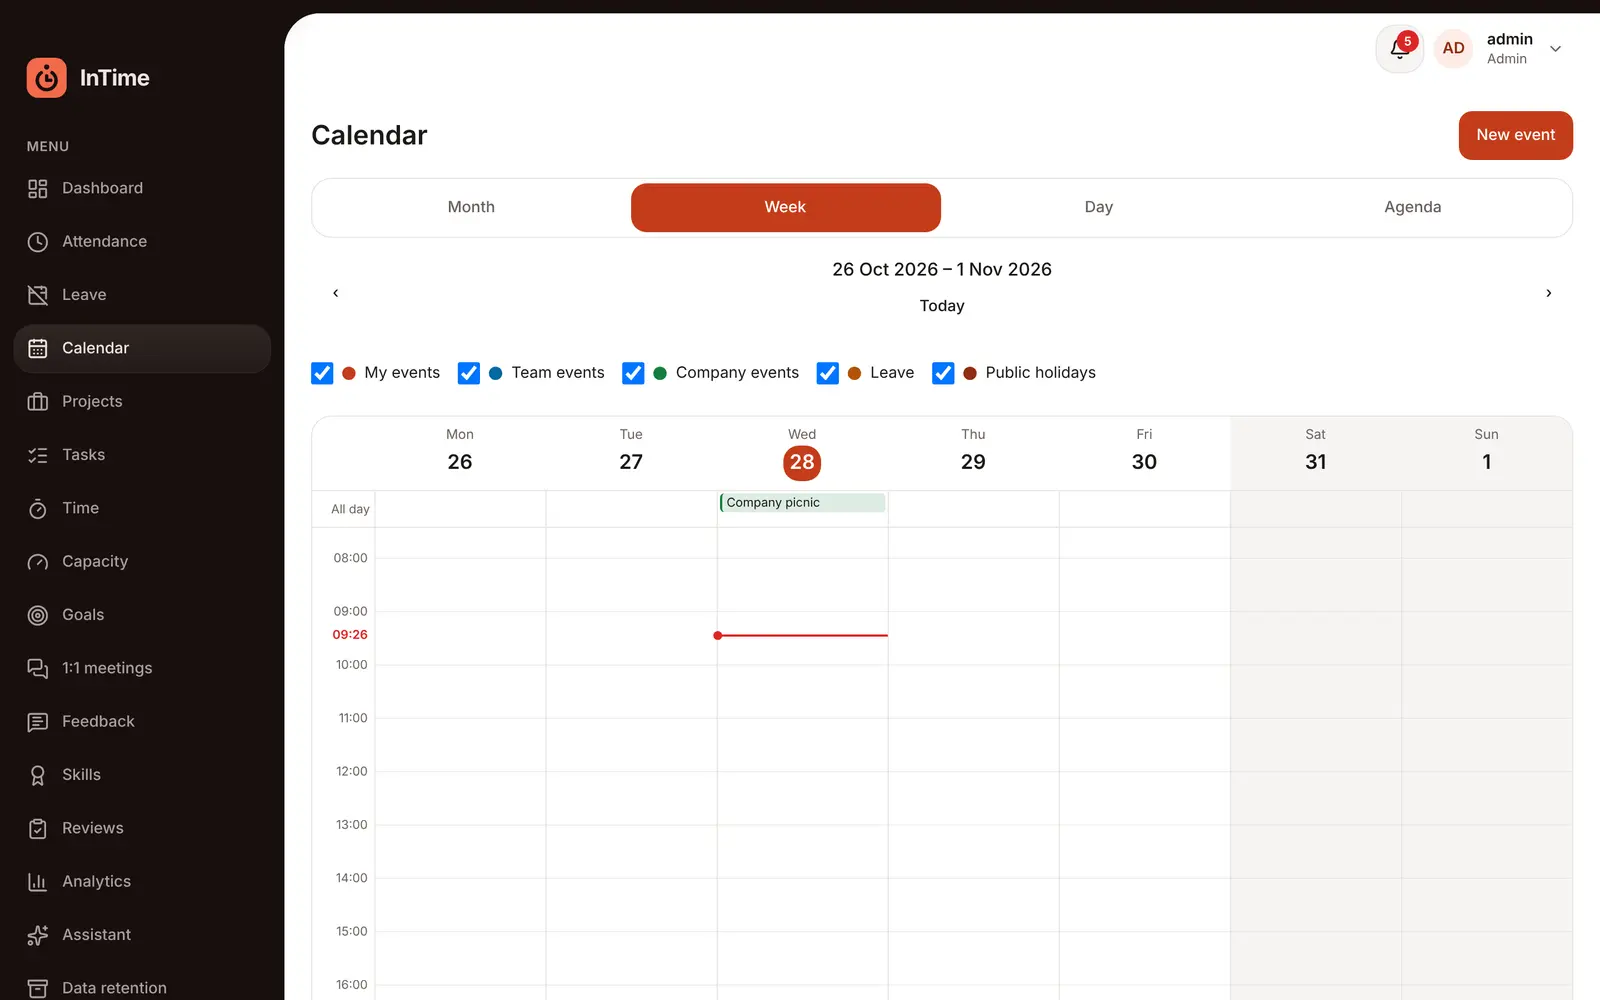
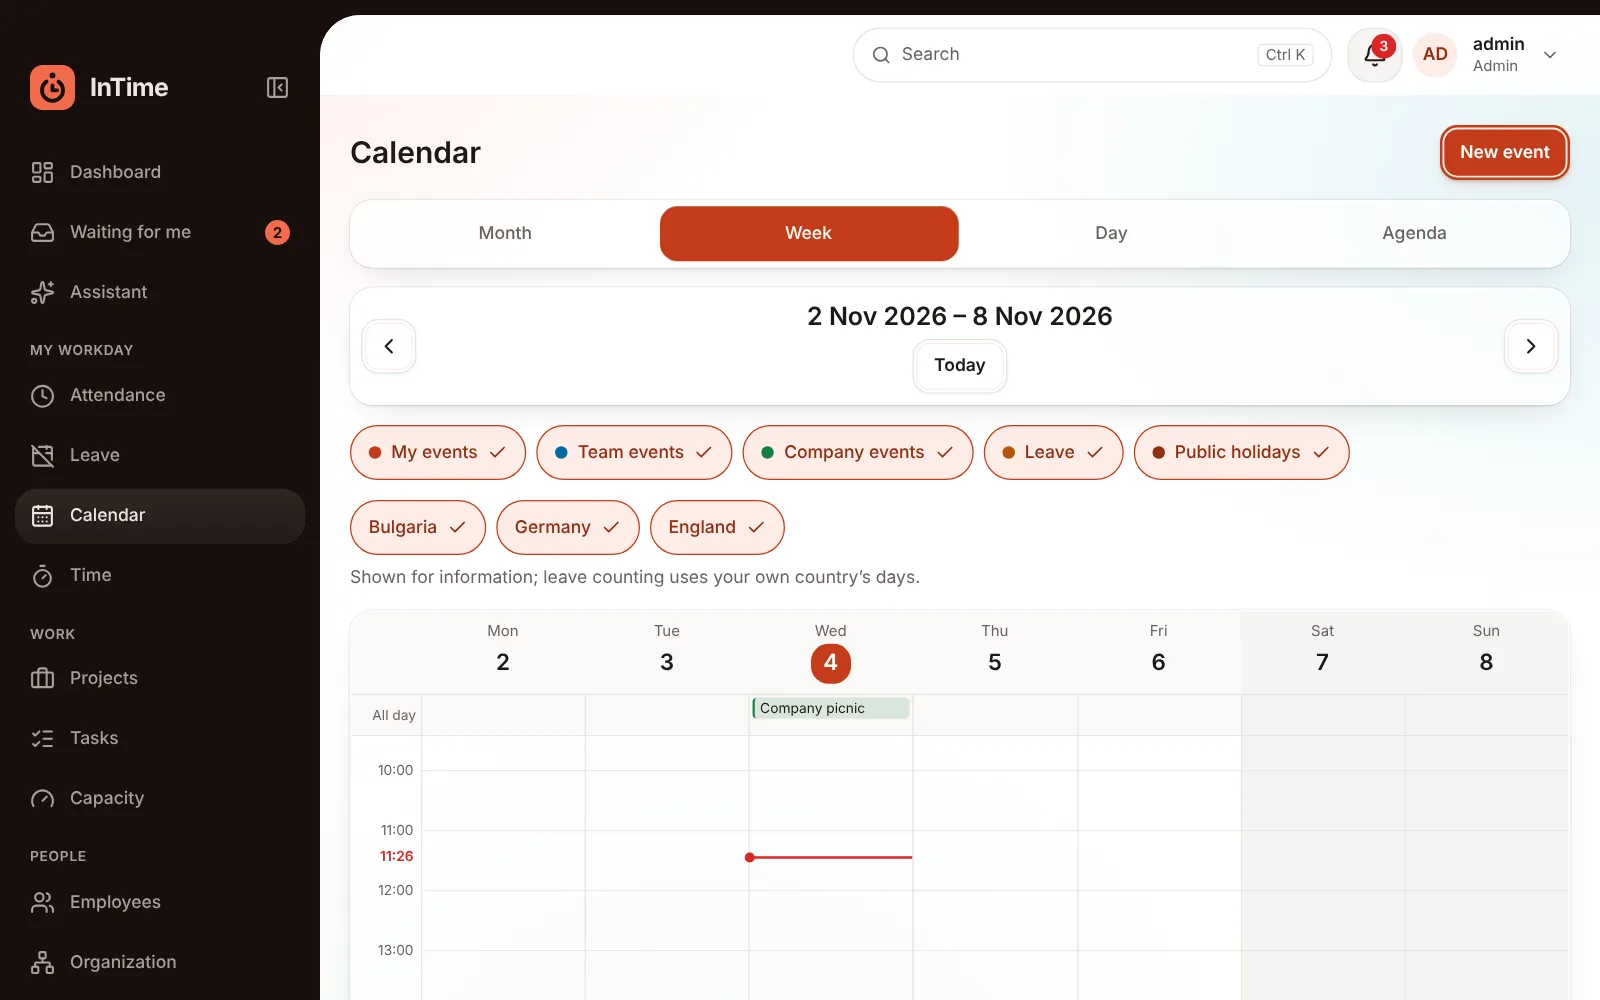
docs: refresh the readme with recent features and new screenshots
Adds a What's new section (Waiting for me, search, checklists with
reminders, audit log viewer, collapsible menu) with screenshots, mentions
them in the feature list, the how-to, tests and roadmap, and retakes every
screenshot from the current app (1600x1000 WebP, two phones side by side).

Claude-Session: https://claude.ai/code/session_01NWcyUybPJRELm2Z16oVowo

diff --git a/README.md b/README.md
@@ -22,6 +22,7 @@
 ## Table of contents
 
 - [Description](#description)
+- [What's new](#whats-new)
 - [How to install and run the project](#how-to-install-and-run-the-project)
 - [How to use the project](#how-to-use-the-project)
 - [Roles and permissions](#roles-and-permissions)
@@ -42,15 +43,16 @@ InTime is a web app for running a team of up to a few hundred people: who works 
 
 ### What it does
 
-- **People:** employee directory and profiles, departments, teams and reporting lines with an org chart, per-person working hours, and pay records for HR (records only, nothing is calculated).
-- **Absence and presence:** leave types, policies and balances with request → approval, public holidays for Bulgaria and Germany, self-reported check-in/check-out with corrections, and a "who is in today" view.
+- **People:** employee directory and profiles, departments, teams and reporting lines with an org chart, per-person working hours, pay records for HR (records only, nothing is calculated), and onboarding and offboarding checklists that start by themselves and remind people before a step is due.
+- **Absence and presence:** leave types, policies and balances with request → approval, public holidays for Bulgaria, Germany and England, self-reported check-in/check-out with corrections, and a "who is in today" view.
 - **Calendar:** month, week, day and agenda views with personal, team and company events, repeating events, guests with answers, "find a time" and reminders. Leave and holidays are shown as layers.
 - **Projects and time:** clients, projects with milestones and staffing, tasks (list and board), a timer and weekly timesheets with approval, reports and CSV export, budget versus actual and team capacity.
 - **Growth:** goals with key results (personal, team, company), 1:1 meetings with private notes and action items, named feedback, a skills matrix and performance review cycles with calibration.
-- **Insight:** a dashboard the administrator arranges from 25 widgets, and analytics with counts only (small groups are hidden).
-- **Administration:** invitations, system and custom roles with a permission editor, an append-only audit log, notifications (in-app and email) with preferences, data export and erasure, and automatic retention for Bulgaria.
+- **Your day in one place:** **Waiting for me** collects everything that needs your decision (leave, timesheets, reviews, checklist steps, reported feedback, invitations) with bulk approve and reject, and the search (**Ctrl+K** / **⌘K**) jumps to any page, person, project, task or common action.
+- **Insight:** a dashboard the administrator arranges from 26 widgets, and analytics with counts only (small groups are hidden).
+- **Administration:** invitations, system and custom roles with a permission editor and a role tree, an append-only audit log with a viewer (filters by area, day, record and person; each reader sees only the areas they administer), notifications (in-app and email) with preferences, data export and erasure, and automatic retention for Bulgaria.
 - **AI assistant (optional, bring your own key):** answers questions about your own data and, if you allow it, about people you may already see, using read-only tools that run with your rights.
-- English, German and Bulgarian; light and dark themes; phone layouts; keyboard-friendly and checked for accessibility on every page.
+- English, German and Bulgarian; light and dark themes; phone layouts; a side menu that folds to icons; keyboard-friendly and checked for accessibility on every page.
 
 ### Why these technologies
 
@@ -70,6 +72,31 @@ InTime is a web app for running a team of up to a few hundred people: who works 
 ### What is planned
 
 Everything in the roadmap is built; the next steps are the first deployment on free plans and file storage (avatars). See the [roadmap](#roadmap).
+
+<p align="right">(<a href="#readme-top">back to top</a>)</p>
+
+## What's new
+
+<table>
+  <tr>
+    <td width="50%"><img src="docs/screenshots/inbox.webp" alt="Waiting for me with two checklist steps to mark done"><br><sub><b>Waiting for me:</b> every decision in one list, with a count in the menu</sub></td>
+    <td width="50%"><img src="docs/screenshots/palette.webp" alt="The search dialog listing pages, sections and actions for 'le'"><br><sub><b>Search (Ctrl+K):</b> pages, sections, actions, people, projects and tasks</sub></td>
+  </tr>
+  <tr>
+    <td width="50%"><img src="docs/screenshots/checklist.webp" alt="An offboarding checklist with four steps, one done, and a progress bar at 25 %"><br><sub><b>Checklists:</b> onboarding and offboarding steps with due dates and reminders</sub></td>
+    <td width="50%"><img src="docs/screenshots/audit-log.webp" alt="The audit log as a timeline with one entry opened to show its recorded data"><br><sub><b>Audit log:</b> who changed what, as a timeline with the recorded data</sub></td>
+  </tr>
+  <tr>
+    <td width="50%"><img src="docs/screenshots/sidebar-collapsed.webp" alt="The task board with the side menu folded to icons"><br><sub><b>Collapsible menu:</b> more room for boards and calendars</sub></td>
+    <td width="50%"><img src="docs/screenshots/phone.webp" alt="The dashboard and Waiting for me on a phone"><br><sub><b>On a phone:</b> Waiting for me sits in the bottom bar</sub></td>
+  </tr>
+</table>
+
+- **Waiting for me** reads the lists you already have access to: pending leave you may approve, submitted timesheets, review parts to write, reported feedback, checklist steps given to you and event invitations you have not answered. Leave and timesheets can be approved or rejected in bulk.
+- **Search** opens with Ctrl+K / ⌘K or the Search button. It finds pages and their sections, common actions (request leave, log time, new event…) and, after two letters, people, projects and tasks you may see. Nothing you type is stored.
+- **Onboarding and offboarding checklists** copy their steps from a template when a person joins or leaves. Each step is given to the person, their manager or HR, and has a due date counted from the start or leaving date. The person a step is given to is reminded the day before and on the day it is due. The employee profile shows the person's checklists.
+- **Audit log viewer** (Administration → Audit log): entries grouped by day, filters by area, dates, one record or one person. HR sees the HR areas and never the workspace settings. Entries hold ids and field names only, never personal data.
+- **Collapsible side menu:** fold the desktop menu to an icon rail and back; the choice is remembered, and each icon shows its name on hover and keyboard focus.
 
 <p align="right">(<a href="#readme-top">back to top</a>)</p>
 
@@ -127,11 +154,12 @@ A pre-commit hook (Husky + lint-staged) lints and formats staged files, and comm
 ## How to use the project
 
 1. **Set up the company** as the administrator: add departments and teams under **Organization**, invite people under **Employees** and give them a manager and a role. Leave types and policies are under **Leave → Settings**.
-2. **Every day:** check in and out under **Attendance**, request leave under **Leave**, see the team and company **Calendar**, and log hours with the timer under **Time**. The bell shows what needs your attention.
-3. **Managers** approve leave and timesheets, see who is in, plan **Capacity** and staff **Projects**, assign **Tasks**, hold **1:1 meetings** and write reviews.
+2. **Every day:** check in and out under **Attendance**, request leave under **Leave**, see the team and company **Calendar**, and log hours with the timer under **Time**. **Waiting for me** lists what needs your decision, the bell shows notifications, and **Ctrl+K** takes you anywhere.
+3. **Managers** approve leave and timesheets (one by one or in bulk), see who is in, plan **Capacity** and staff **Projects**, assign **Tasks**, hold **1:1 meetings**, write reviews and follow the **Checklists** of new joiners and leavers.
 4. **Growth:** set **Goals** with key results, give **Feedback**, rate **Skills** and take part in **Reviews** when HR opens a cycle.
 5. **Overview:** the **Dashboard** shows the widgets the administrator chose (each person only sees what they may), and **Analytics** shows totals for a period.
-6. **Your data:** under **Profile** you can download everything the app holds about you. HR can export or erase the data of a former employee.
+6. **Administration:** build **Roles**, set **Data retention**, and read the **Audit log** to see who changed what.
+7. **Your data:** under **Profile** you can download everything the app holds about you. HR can export or erase the data of a former employee.
 
 <table>
   <tr>
@@ -144,7 +172,7 @@ A pre-commit hook (Husky + lint-staged) lints and formats staged files, and comm
   </tr>
   <tr>
     <td width="50%"><img src="docs/screenshots/leave.webp" alt="Leave balance and the request form"><br><sub>Leave</sub></td>
-    <td width="50%"><img src="docs/screenshots/phone.webp" alt="Dashboard and calendar on a phone"><br><sub>On a phone</sub></td>
+    <td width="50%"><img src="docs/screenshots/phone.webp" alt="The dashboard and Waiting for me on a phone"><br><sub>On a phone</sub></td>
   </tr>
 </table>
 
@@ -193,7 +221,7 @@ Production values (cookies, proxy hops, email) are described in the [deployment 
 ## Tests
 
 - `pnpm test`: unit tests in every package and API tests against a real database when `TEST_DATABASE_URL` is set (CI always sets it). Every feature has positive and negative cases: wrong role, wrong company, not found, duplicates, boundaries. Every tenant table has an isolation test, every route must declare its protection (a test lists them), and the permission matrix is tested role by role.
-- `pnpm --filter @intime/e2e e2e`: browser tests with Playwright against a fresh database, a real `tenant:create` and the Vite dev server. They cover onboarding, leave, attendance, calendar, projects, tasks, time, reports, capacity, goals, 1:1s, feedback, skills, reviews, analytics, compensation, roles, privacy and retention, the dashboard and motion. Set `E2E_DATABASE_URL` to a Postgres owner URL first.
+- `pnpm --filter @intime/e2e e2e`: browser tests with Playwright against a fresh database, a real `tenant:create` and the Vite dev server. They cover onboarding, leave, attendance, calendar, projects, tasks, time, reports, capacity, goals, 1:1s, feedback, skills, reviews, analytics, compensation, roles, privacy and retention, checklists, the audit log, search, the collapsible menu, the dashboard and motion. Set `E2E_DATABASE_URL` to a Postgres owner URL first.
 - **Accessibility:** `06-accessibility.spec.ts` scans every page with axe (WCAG 2.1 A and AA) on a phone and a desktop, in light and dark.
 
 CI runs the format check, lint, type checks, all tests and the build on every push and pull request, and the browser tests as a separate job.
@@ -206,7 +234,7 @@ Everything runs on free EU plans:
 Browser ──► Cloudflare Pages (web app + /api proxy function) ──► Render, Frankfurt (API)
                                                                    ├──► Neon, Frankfurt (Postgres)
                                                                    └──► Resend (emails)
-GitHub Actions ──► CI, deploy on main, hourly reminder ping
+GitHub Actions ──► CI, deploy on main, hourly reminder ping (attendance, timers, events, checklist steps)
 ```
 
 Releases go only through `.github/workflows/deploy.yml` on `main` after CI. Migrations run before the new code, so every migration stays compatible with the previous release. Step-by-step guide: [`docs/deployment.md`](docs/deployment.md).
@@ -234,7 +262,7 @@ Inside the apps, code is organised by feature: `apps/web/src/features/<feature>`
 | [`docs/permission-matrix.md`](docs/permission-matrix.md) | Every permission with its scopes and default roles (generated) |
 | [`docs/roadmap.md`](docs/roadmap.md)                     | Phases, scope and the definition of done                       |
 | [`docs/deployment.md`](docs/deployment.md)               | Deploying on free plans and operating the live site            |
-| [`docs/adr/`](docs/adr)                                  | 34 decision records, one per feature or design choice          |
+| [`docs/adr/`](docs/adr)                                  | 42 decision records, one per feature or design choice          |
 | [`CLAUDE.md`](CLAUDE.md)                                 | Working rules and conventions for each module                  |
 
 <p align="right">(<a href="#readme-top">back to top</a>)</p>
@@ -248,6 +276,7 @@ Inside the apps, code is organised by feature: `apps/web/src/features/<feature>`
 - [x] Performance reviews and analytics
 - [x] AI assistant, repeating events with guests and reminders, working hours, retention for Bulgaria, compensation records, role editor
 - [x] Customizable dashboard, motion, new visual style, logo and splash screen
+- [x] Waiting for me, search (Ctrl+K), onboarding and offboarding checklists with reminders, audit log viewer, collapsible menu
 - [ ] First deployment on free plans
 - [ ] File storage (avatars, attachments)
 - [ ] Retention presets for more countries
